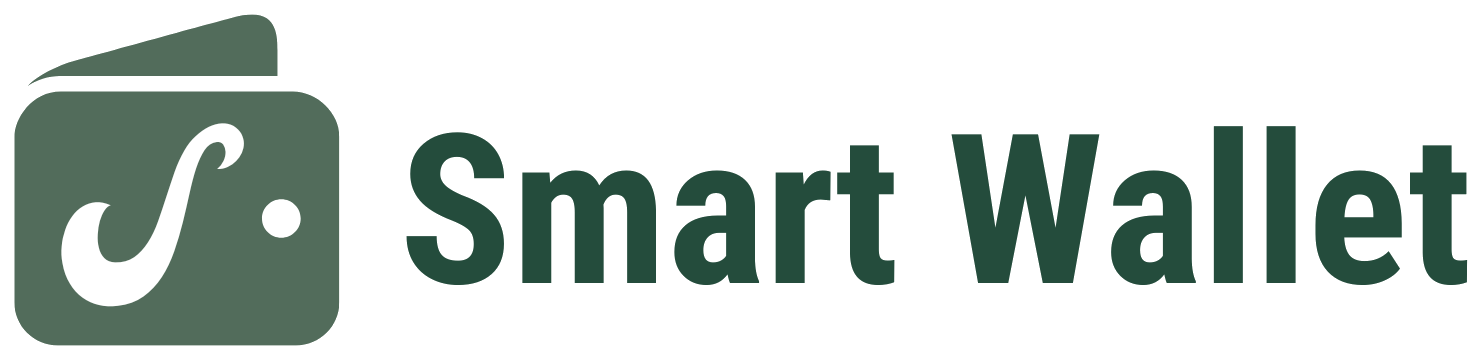
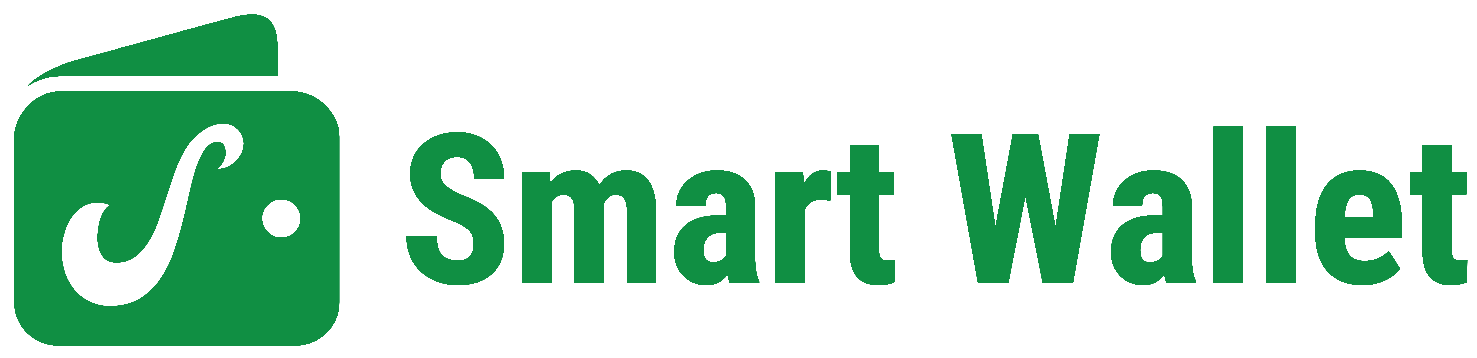
add new top bar and add darkmode

Changed region(s): [[0.0, 0.2458, 0.9966, 0.9832], [0.0311, 0.0307, 0.1869, 0.2151]]

diff --git a/src/components/partial/DesktopSidebar.tsx b/src/components/partial/DesktopSidebar.tsx
@@ -10,55 +10,72 @@ import { GoGoal } from "react-icons/go";
 import { TbMoneybag } from "react-icons/tb";
 import { FiUpload } from "react-icons/fi";
 import { TbCalendarDollar } from "react-icons/tb";
+import { Knob } from 'primereact/knob';
 
 const DesktopSidebar = () => {
+  const [value, setValue] = useState<number>(10);
 
   return (
-    <div className='px-7 py-8 bg-primary-50 fixed left-0 top-0 bottom-0 w-[350px]'>
-      <div className='mb-8'>
+    <div className='px-7 py-8 bg-slate-100 dark:bg-dark-500 fixed left-0 top-0 bottom-0 w-[350px]'>
+      <div>
         <Image className='w-[180px] mx-auto' src={MainLogo} width={300} height={100} alt='Smart Wallet' />
+        <div className='pt-8 border-b border-slate-200 dark:border-dark-100'></div>
       </div>
 
-      <div className='grid gap-2'>
-        <Link href='#' className='flex items-center gap-3 bg-white font-semibold text-gray-600 primary-shadow py-3 px-4 rounded-2xl'>
-          <span className='bg-primary-300 p-2 rounded-xl text-white'><LuLayoutDashboard size={18} /></span>
-          <p>Dashboard</p>
-        </Link>
+      <div className='h-screen overflow-y-scroll overflow-style-none pb-[139px] pt-4'>
+        <div className='grid gap-2'>
+          <Link href='#' className='flex items-center gap-3 bg-white dark:bg-dark-100 font-semibold text-gray-600 dark:text-white primary-shadow dark:shadow-sm py-3 px-4 rounded-2xl'>
+            <span className='bg-primary-300 p-2 rounded-xl text-white'><LuLayoutDashboard size={18} /></span>
+            <p>Dashboard</p>
+          </Link>
 
-        <Link href='#' className='flex items-center gap-3 py-3 px-4 rounded-2xl'>
-          <span className='bg-white p-2 rounded-xl text-primary-300 primary-shadow'><IoWalletOutline size={18} /></span>
-          <p>Balance</p>
-        </Link>
+          <Link href='#' className='flex items-center gap-3 py-3 px-4 rounded-2xl'>
+            <span className='bg-white dark:bg-dark-100 p-2 rounded-xl text-primary-300 primary-shadow dark:shadow-none'><IoWalletOutline size={18} /></span>
+            <p>Balance</p>
+          </Link>
 
-        <Link href='#' className='flex items-center gap-3 py-3 px-4 rounded-2xl'>
-          <span className='bg-white p-2 rounded-xl text-primary-300 primary-shadow'><TbMoneybag size={18} /></span>
-          <p>Deposit</p>
-        </Link>
+          <Link href='#' className='flex items-center gap-3 py-3 px-4 rounded-2xl'>
+            <span className='bg-white dark:bg-dark-100 p-2 rounded-xl text-primary-300 primary-shadow dark:shadow-none'><TbMoneybag size={18} /></span>
+            <p>Deposit</p>
+          </Link>
 
-        <Link href='#' className='flex items-center gap-3 py-3 px-4 rounded-2xl'>
-          <span className='bg-white p-2 rounded-xl text-primary-300 primary-shadow'><FiUpload size={18} /></span>
-          <p>Expense</p>
-        </Link>
+          <Link href='#' className='flex items-center gap-3 py-3 px-4 rounded-2xl'>
+            <span className='bg-white dark:bg-dark-100 p-2 rounded-xl text-primary-300 primary-shadow dark:shadow-none'><FiUpload size={18} /></span>
+            <p>Expense</p>
+          </Link>
 
-        <Link href='#' className='flex items-center gap-3 py-3 px-4 rounded-2xl'>
-          <span className='bg-white p-2 rounded-xl text-primary-300 primary-shadow'><GrTransaction size={18} /></span>
-          <p>Transactions</p>
-        </Link>
+          <Link href='#' className='flex items-center gap-3 py-3 px-4 rounded-2xl'>
+            <span className='bg-white dark:bg-dark-100 p-2 rounded-xl text-primary-300 primary-shadow dark:shadow-none'><GrTransaction size={18} /></span>
+            <p>Transactions</p>
+          </Link>
 
-        <Link href='#' className='flex items-center gap-3 py-3 px-4 rounded-2xl'>
-          <span className='bg-white p-2 rounded-xl text-primary-300 primary-shadow'><TbCalendarDollar size={18} /></span>
-          <p>Bills</p>
-        </Link>
+          <Link href='#' className='flex items-center gap-3 py-3 px-4 rounded-2xl'>
+            <span className='bg-white dark:bg-dark-100 p-2 rounded-xl text-primary-300 primary-shadow dark:shadow-none'><TbCalendarDollar size={18} /></span>
+            <p>Bills</p>
+          </Link>
 
-        <Link href='#' className='flex items-center gap-3 py-3 px-4 rounded-2xl'>
-          <span className='bg-white p-2 rounded-xl text-primary-300 primary-shadow'><TbBrandGoogleAnalytics size={18} /></span>
-          <p>Analytics</p>
-        </Link>
+          <Link href='#' className='flex items-center gap-3 py-3 px-4 rounded-2xl'>
+            <span className='bg-white dark:bg-dark-100 p-2 rounded-xl text-primary-300 primary-shadow dark:shadow-none'><TbBrandGoogleAnalytics size={18} /></span>
+            <p>Analytics</p>
+          </Link>
 
-        <Link href='#' className='flex items-center gap-3 py-3 px-4 rounded-2xl'>
-          <span className='bg-white p-2 rounded-xl text-primary-300 primary-shadow'><GoGoal size={18} /></span>
-          <p>Golas</p>
-        </Link>
+          <Link href='#' className='flex items-center gap-3 py-3 px-4 rounded-2xl'>
+            <span className='bg-white dark:bg-dark-100 p-2 rounded-xl text-primary-300 primary-shadow dark:shadow-none'><GoGoal size={18} /></span>
+            <p>Golas</p>
+          </Link>
+        </div>
+
+        <div className='p-4 bg-primary-200 rounded-2xl mt-10 bg-cover bg-no-repeat bg-right' style={{backgroundImage: `url(/bg-images/bg.png)`,}}>
+          <h4 className='text-lg font-semibold text-white text-center'>Your profile completion</h4>
+          <Knob className='sw-knob mt-5 mb-2 flex justify-center' readOnly value={value} step={10} onChange={(e) => setValue(e.value)} />
+          <p className='text-sm font-medium text-white text-center'>Please complete your profile with information</p>
+
+          <div className='pt-6 pb-4 text-center'>
+            <Link href='#' className='px-5 bg-white text-gray-700 text-sm py-3 rounded-xl font-medium hover:shadow-md duration-300'>
+              View Details
+            </Link>
+          </div>
+        </div>
       </div>
     </div>
   );

diff --git a/src/components/partial/TopHeader.tsx b/src/components/partial/TopHeader.tsx
@@ -1,0 +1,43 @@
+import React, { useState } from 'react';
+import { InputText } from "primereact/inputtext";
+import { FiSearch } from "react-icons/fi";
+import { RiNotification4Line } from "react-icons/ri";
+import ThemeSwitch from './ThemeSwitch';
+import Image from 'next/image';
+import userPhoto from '/public/temp-user.jpg';
+
+const TopHeader = () => {
+    const [value, setValue] = useState<string>('');
+
+    return (
+        <header className='pr-8 pl-6 py-5 flex justify-between'>
+            <section>
+                <h1 className='text-2xl font-semibold text-gray-700 dark:text-white'>Dashboard</h1>
+            </section>
+
+            <section className='flex items-center gap-6'>
+                <div className='relative max-w-[330px] w-[330px]'>
+                    <InputText className='header-search-input dark:!bg-dark-50 dark:border-dark-50 dark:text-white' value={value} onChange={(e: React.ChangeEvent<HTMLInputElement>) => setValue(e.target.value)} />
+                    <span className='absolute cursor-pointer hover:bg-primary-300 p-[9px] rounded-full right-[1px] top-[0.7px] text-gray-500 dark:text-white hover:text-white duration-300'><FiSearch size={20} /></span>
+                </div>
+
+                <ul className='flex items-center gap-4'>
+                    <li>
+                        <button className='bg-primary-200 hover:bg-primary-400 duration-300 px-4 py-[10px] rounded-xl font-medium text-white text-sm'>+ Add Expense</button>
+                    </li>
+                    <li>
+                        <button className='bg-primary-200 hover:bg-primary-400 duration-300 h-10 w-10 flex justify-center items-center rounded-full text-white'><RiNotification4Line size={20} /></button>
+                    </li>
+                    <li>
+                        <button className='bg-primary-200 hover:bg-primary-400 duration-300 h-10 w-10 flex justify-center items-center rounded-full text-white'><ThemeSwitch /></button>
+                    </li>
+                    <li>
+                        <Image className='w-10 h-10 rounded-full object-cover object-center border p-[2px] border-secondary-200 cursor-pointer' src={userPhoto} width={100} height={100} alt='User Photo' />
+                    </li>
+                </ul>
+            </section>
+        </header>
+    );
+};
+
+export default TopHeader;

diff --git a/tailwind.config.ts b/tailwind.config.ts
@@ -17,16 +17,30 @@ const config: Config = {
       },
       colors: {
         primary: {
-          50: '#e2e5e1',
-          100: '#cad2c5',
-          300: '#52796f',
-          400: '#526c5b',
-          500: '#354f52',
-          600: '#244c3c',
-          700: '#2f3e46',
+          50: '#C2FFC2',
+          100: '#30E87A',
+          200: '#16C65C',
+          300: '#108F43',
+          400: '#0C6E33',
+          500: '#094D24',
+          600: '#06371A',
+          700: '#02160A',
         },
-        orange: {
-          500: '#fa6e06',
+        secondary: {
+          50: '#d6cae6',
+          100: '#B9A1D6',
+          200: '#8B4DFB',
+          300: '#6E22FA',
+          400: '#5305E6',
+          500: '#4204B4',
+          600: '#300383',
+          700: '#150139',
+        },
+        dark: {
+          50: '#34373c',
+          100: '#2b2e33',
+          200: '#23262B',
+          500: '#1D1E24',
         },
       },
     },

diff --git a/src/styles/partial/plugin-overwright.css b/src/styles/partial/plugin-overwright.css
@@ -1,0 +1,26 @@
+.sw-knob svg .p-knob-range {
+    stroke: #ffffff !important;
+}
+
+.sw-knob svg .p-knob-value {
+    stroke: #06371A !important;
+}
+
+.sw-knob svg .p-knob-text {
+    fill: #06371A !important;
+    font-weight: 600 !important;
+}
+
+/* Prime React Input style */
+.p-inputtext {
+    padding: 7px 12px !important;
+}
+
+.p-inputtext:enabled:hover {
+    border-color: #108F43 !important;
+}
+
+.p-inputtext:enabled:focus {
+    box-shadow: none !important;
+    border-color: #108F43 !important;
+}

diff --git a/src/app/dashboard/index.tsx b/src/app/dashboard/index.tsx
@@ -1,17 +1,18 @@
 'use client';
 import DesktopSidebar from '@/components/partial/DesktopSidebar';
+import TopHeader from '@/components/partial/TopHeader';
 import React from 'react';
 
 const Dashboard = () => {
 
   return (
-    <div className=''>
+    <div>
       <aside>
         <DesktopSidebar />
       </aside>
 
-      <section className=''>
-        asads
+      <section className='pl-[350px]'>
+        <TopHeader />
       </section>
     </div>
   );

diff --git a/src/app/globals.css b/src/app/globals.css
@@ -2,8 +2,8 @@
 @tailwind components;
 @tailwind utilities;
 
-@import url('https://fonts.googleapis.com/css2?family=Plus+Jakarta+Sans:ital,wght@0,200..800;1,200..800&display=swap');
+@import url('https://fonts.googleapis.com/css2?family=Roboto:ital,wght@0,100;0,300;0,400;0,500;0,700;0,900;1,100;1,300;1,400;1,500;1,700;1,900&display=swap');
 
 body{
-  font-family: "Plus Jakarta Sans", sans-serif;
+  font-family: "Roboto", sans-serif;
 }

diff --git a/src/app/layout.tsx b/src/app/layout.tsx
@@ -18,7 +18,7 @@ interface Props {
 export default function RootLayout({ children }: Props) {
   return (
     <html lang="en">
-      <body suppressHydrationWarning={true} className="bg-gray-50">
+      <body suppressHydrationWarning={true} className="bg-gray-50 dark:bg-dark-200">
         <Providers>
           <main>
             {children}

diff --git a/src/styles/partial/common.css b/src/styles/partial/common.css
@@ -2,6 +2,10 @@
     box-shadow: 0px 3.5px 5.5px 0px #bababa38;
 }
 
+.overflow-style-none {
+    scrollbar-width: none;
+}
+
 
 /* Primary Scrollbar */
 .primary-scrollbar::-webkit-scrollbar {

diff --git a/src/styles/app.css b/src/styles/app.css
@@ -1,4 +1,6 @@
 /* Partial */
-@import './partial/common.css'
+@import './partial/common.css';
+@import './partial/plugin-overwright.css';
 
 /* Pages */
+@import './pages/dashboard.css';

diff --git a/src/styles/pages/dashboard.css b/src/styles/pages/dashboard.css
@@ -1,0 +1,4 @@
+.header-search-input {
+    width: 100% !important;
+    border-radius: 30px !important;
+}
